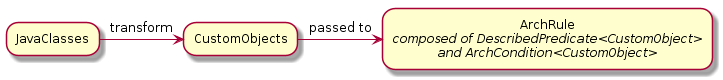
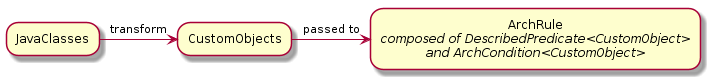
Adjusted the user guide to reflect the recent improvement to PlantUML parsing. Also upgraded Gradle Asciidoctor integration to a more recent version. Finally made some invariant to contravariant type bounds on method parameters of PlantUmlArchCondition to make the API more comfortable to use with pr
Issue: #127

diff --git a/docs/userguide/html/000_Index.html b/docs/userguide/html/000_Index.html
@@ -4,7 +4,7 @@
 <meta charset="UTF-8">
 <!--[if IE]><meta http-equiv="X-UA-Compatible" content="IE=edge"><![endif]-->
 <meta name="viewport" content="width=device-width, initial-scale=1.0">
-<meta name="generator" content="Asciidoctor 1.5.6.1">
+<meta name="generator" content="Asciidoctor 1.5.8">
 <meta name="description" content="index page of ArchUnit's documentation">
 <meta name="keywords" content="ArchUnit, Java, architecture, test, analysis">
 <title>ArchUnit User Guide</title>
@@ -443,7 +443,7 @@ h4 {
     margin-bottom: 0.55em !important;
 }
 </style>
-<link rel="stylesheet" href="https://cdnjs.cloudflare.com/ajax/libs/font-awesome/4.6.3/css/font-awesome.min.css">
+<link rel="stylesheet" href="https://cdnjs.cloudflare.com/ajax/libs/font-awesome/4.7.0/css/font-awesome.min.css">
 </head>
 <body class="article toc2 toc-left">
 <div id="header">
@@ -877,7 +877,7 @@ class MyArchitectureTest {
 <h3 id="_package_dependency_checks"><a class="anchor" href="#_package_dependency_checks"></a>4.1. Package Dependency Checks</h3>
 <div class="imageblock">
 <div class="content">
-<img src="package-deps-no-access.png" alt="package deps no access" width="461" height="76">
+<img src="package-deps-no-access.png" alt="package deps no access" width="460" height="75">
 </div>
 </div>
 <div class="listingblock">
@@ -888,7 +888,7 @@ class MyArchitectureTest {
 </div>
 <div class="imageblock">
 <div class="content">
-<img src="package-deps-only-access.png" alt="package deps only access" width="496" height="334">
+<img src="package-deps-only-access.png" alt="package deps only access" width="487" height="333">
 </div>
 </div>
 <div class="listingblock">
@@ -902,7 +902,7 @@ class MyArchitectureTest {
 <h3 id="_class_dependency_checks"><a class="anchor" href="#_class_dependency_checks"></a>4.2. Class Dependency Checks</h3>
 <div class="imageblock">
 <div class="content">
-<img src="class-naming-deps.png" alt="class naming deps" width="334" height="214">
+<img src="class-naming-deps.png" alt="class naming deps" width="324" height="213">
 </div>
 </div>
 <div class="listingblock">
@@ -916,7 +916,7 @@ class MyArchitectureTest {
 <h3 id="_class_and_package_containment_checks"><a class="anchor" href="#_class_and_package_containment_checks"></a>4.3. Class and Package Containment Checks</h3>
 <div class="imageblock">
 <div class="content">
-<img src="class-package-contain.png" alt="class package contain" width="348" height="203">
+<img src="class-package-contain.png" alt="class package contain" width="319" height="187">
 </div>
 </div>
 <div class="listingblock">
@@ -930,7 +930,7 @@ class MyArchitectureTest {
 <h3 id="_inheritance_checks"><a class="anchor" href="#_inheritance_checks"></a>4.4. Inheritance Checks</h3>
 <div class="imageblock">
 <div class="content">
-<img src="inheritance-naming-check.png" alt="inheritance naming check" width="478" height="225">
+<img src="inheritance-naming-check.png" alt="inheritance naming check" width="468" height="224">
 </div>
 </div>
 <div class="listingblock">
@@ -941,7 +941,7 @@ class MyArchitectureTest {
 </div>
 <div class="imageblock">
 <div class="content">
-<img src="inheritance-access-check.png" alt="inheritance access check" width="579" height="267">
+<img src="inheritance-access-check.png" alt="inheritance access check" width="549" height="248">
 </div>
 </div>
 <div class="listingblock">
@@ -955,7 +955,7 @@ class MyArchitectureTest {
 <h3 id="_annotation_checks"><a class="anchor" href="#_annotation_checks"></a>4.5. Annotation Checks</h3>
 <div class="imageblock">
 <div class="content">
-<img src="inheritance-annotation-check.png" alt="inheritance annotation check" width="597" height="220">
+<img src="inheritance-annotation-check.png" alt="inheritance annotation check" width="587" height="219">
 </div>
 </div>
 <div class="listingblock">
@@ -969,7 +969,7 @@ class MyArchitectureTest {
 <h3 id="_layer_checks"><a class="anchor" href="#_layer_checks"></a>4.6. Layer Checks</h3>
 <div class="imageblock">
 <div class="content">
-<img src="layer-check.png" alt="layer check" width="653" height="598">
+<img src="layer-check.png" alt="layer check" width="627" height="538">
 </div>
 </div>
 <div class="listingblock">
@@ -989,7 +989,7 @@ class MyArchitectureTest {
 <h3 id="_cycle_checks"><a class="anchor" href="#_cycle_checks"></a>4.7. Cycle Checks</h3>
 <div class="imageblock">
 <div class="content">
-<img src="cycle-check.png" alt="cycle check" width="759" height="398">
+<img src="cycle-check.png" alt="cycle check" width="729" height="338">
 </div>
 </div>
 <div class="listingblock">
@@ -1192,7 +1192,7 @@ like this:</p>
 </div>
 <div class="imageblock">
 <div class="content">
-<img src="domain-overview.png" alt="domain overview" width="985" height="442">
+<img src="domain-overview.png" alt="domain overview" width="984" height="441">
 </div>
 </div>
 <div class="paragraph">
@@ -1221,7 +1221,7 @@ inheritance is not completely straight forward. Consider for example</p>
 </div>
 <div class="imageblock">
 <div class="content">
-<img src="resolution-example.png" alt="resolution example" width="377" height="188">
+<img src="resolution-example.png" alt="resolution example" width="376" height="187">
 </div>
 </div>
 <div class="paragraph">
@@ -1236,7 +1236,7 @@ The situation looks roughly like</p>
 </div>
 <div class="imageblock">
 <div class="content">
-<img src="resolution-overview.png" alt="resolution overview" width="544" height="317">
+<img src="resolution-overview.png" alt="resolution overview" width="543" height="316">
 </div>
 </div>
 <div class="paragraph">
@@ -1256,7 +1256,7 @@ cases, for example:</p>
 </div>
 <div class="imageblock">
 <div class="content">
-<img src="diamond-example.png" alt="diamond example" width="514" height="223">
+<img src="diamond-example.png" alt="diamond example" width="513" height="222">
 </div>
 </div>
 <div class="paragraph">
@@ -1588,7 +1588,7 @@ a more generic API, that controls the types of objects that our concept targets.
 </div>
 <div class="imageblock">
 <div class="content">
-<img src="import-vs-lang.png" alt="import vs lang" width="723" height="80">
+<img src="import-vs-lang.png" alt="import vs lang" width="710" height="79">
 </div>
 </div>
 <div class="paragraph">
@@ -1797,7 +1797,7 @@ The way this works is to use the respective package identifiers (compare
 </div>
 <div class="imageblock">
 <div class="content">
-<img src="simple-plantuml-archrule-example.png" alt="simple plantuml archrule example" width="160" height="184">
+<img src="simple-plantuml-archrule-example.png" alt="simple plantuml archrule example" width="159" height="183">
 </div>
 </div>
 <div class="listingblock">
@@ -1853,21 +1853,33 @@ classes().should(adhereToPlantUmlDiagram(mydiagram).ignoreDependencies(predicate
 <div class="olist arabic">
 <ol class="arabic">
 <li>
-<p>Components must have a name</p>
+<p>Components must be declared in the bracket notation (i.e. <code>[Some Component]</code>)</p>
 </li>
 <li>
-<p>Components must have at least one stereotype. Each stereotype in the diagram must be unique</p>
+<p>Components must have at least one (possible multiple) stereotype(s). Each stereotype in the diagram
+must be unique and represent a valid package identifier (e.g. <code>&lt;&lt;..example..&gt;&gt;</code> where <code>..</code> represents
+an arbitrary number of packages; compare the core API)</p>
 </li>
 <li>
-<p>Components may have an optional alias</p>
+<p>Components may have an optional alias (e.g. <code>[Some Component] &lt;&lt;..example..&gt;&gt; as myalias</code>)</p>
 </li>
 <li>
-<p>Components must be defined before declaring dependencies</p>
+<p>Dependencies must use arrows only consisting of dashes (e.g. <code>--&gt;</code>)</p>
 </li>
 <li>
-<p>Dependencies must use arrows only consisting of dashes, pointing right, e.g. <code>--&gt;</code></p>
+<p>Dependencies may go from left to right <code>--&gt;</code> or right to left <code>&lt;--</code></p>
+</li>
+<li>
+<p>Dependencies may consist of any number of dashes (e.g <code>-&gt;</code> or <code>-----&gt;</code>)</p>
+</li>
+<li>
+<p>Dependencies may contain direction hints (e.g. <code>-up-&gt;</code>) or color directives (e.g. <code>-[#green]-&gt;</code>)</p>
 </li>
 </ol>
+</div>
+<div class="paragraph">
+<p>You can compare this
+<a href="https://github.com/TNG/ArchUnit-Examples/blob/master/example-plain/src/test/resources/com/tngtech/archunit/exampletest/shopping_example.puml">diagram of ArchUnit-Examples</a>.</p>
 </div>
 </div>
 </div>
@@ -2193,8 +2205,8 @@ but it can be activated the following way:</p>
 </div>
 </div>
 </div>
-<link rel="stylesheet" href="https://cdnjs.cloudflare.com/ajax/libs/highlight.js/9.12.0/styles/mono-blue.min.css">
-<script src="https://cdnjs.cloudflare.com/ajax/libs/highlight.js/9.12.0/highlight.min.js"></script>
+<link rel="stylesheet" href="https://cdnjs.cloudflare.com/ajax/libs/highlight.js/9.13.1/styles/mono-blue.min.css">
+<script src="https://cdnjs.cloudflare.com/ajax/libs/highlight.js/9.13.1/highlight.min.js"></script>
 <script>hljs.initHighlighting()</script>
 </body>
 </html>

diff --git a/archunit/src/main/java/com/tngtech/archunit/library/plantuml/PlantUmlArchCondition.java b/archunit/src/main/java/com/tngtech/archunit/library/plantuml/PlantUmlArchCondition.java
@@ -99,13 +99,13 @@ public class PlantUmlArchCondition extends ArchCondition<JavaClass> {
     }
 
     @PublicAPI(usage = ACCESS)
-    public PlantUmlArchCondition ignoreDependenciesWithOrigin(DescribedPredicate<JavaClass> ignorePredicate) {
+    public PlantUmlArchCondition ignoreDependenciesWithOrigin(DescribedPredicate<? super JavaClass> ignorePredicate) {
         return ignoreDependencies(GET_ORIGIN_CLASS.is(ignorePredicate)
                 .as("ignoring dependencies with origin " + ignorePredicate.getDescription()));
     }
 
     @PublicAPI(usage = ACCESS)
-    public PlantUmlArchCondition ignoreDependenciesWithTarget(DescribedPredicate<JavaClass> ignorePredicate) {
+    public PlantUmlArchCondition ignoreDependenciesWithTarget(DescribedPredicate<? super JavaClass> ignorePredicate) {
         return ignoreDependencies(GET_TARGET_CLASS.is(ignorePredicate)
                 .as("ignoring dependencies with target " + ignorePredicate.getDescription()));
     }
@@ -123,7 +123,7 @@ public class PlantUmlArchCondition extends ArchCondition<JavaClass> {
     }
 
     @PublicAPI(usage = ACCESS)
-    public PlantUmlArchCondition ignoreDependencies(DescribedPredicate<Dependency> ignorePredicate) {
+    public PlantUmlArchCondition ignoreDependencies(DescribedPredicate<? super Dependency> ignorePredicate) {
         String description = getDescription() + ", " + ignorePredicate.getDescription();
         return new PlantUmlArchCondition(description,
                 this.ignorePredicate.or(ignorePredicate),
